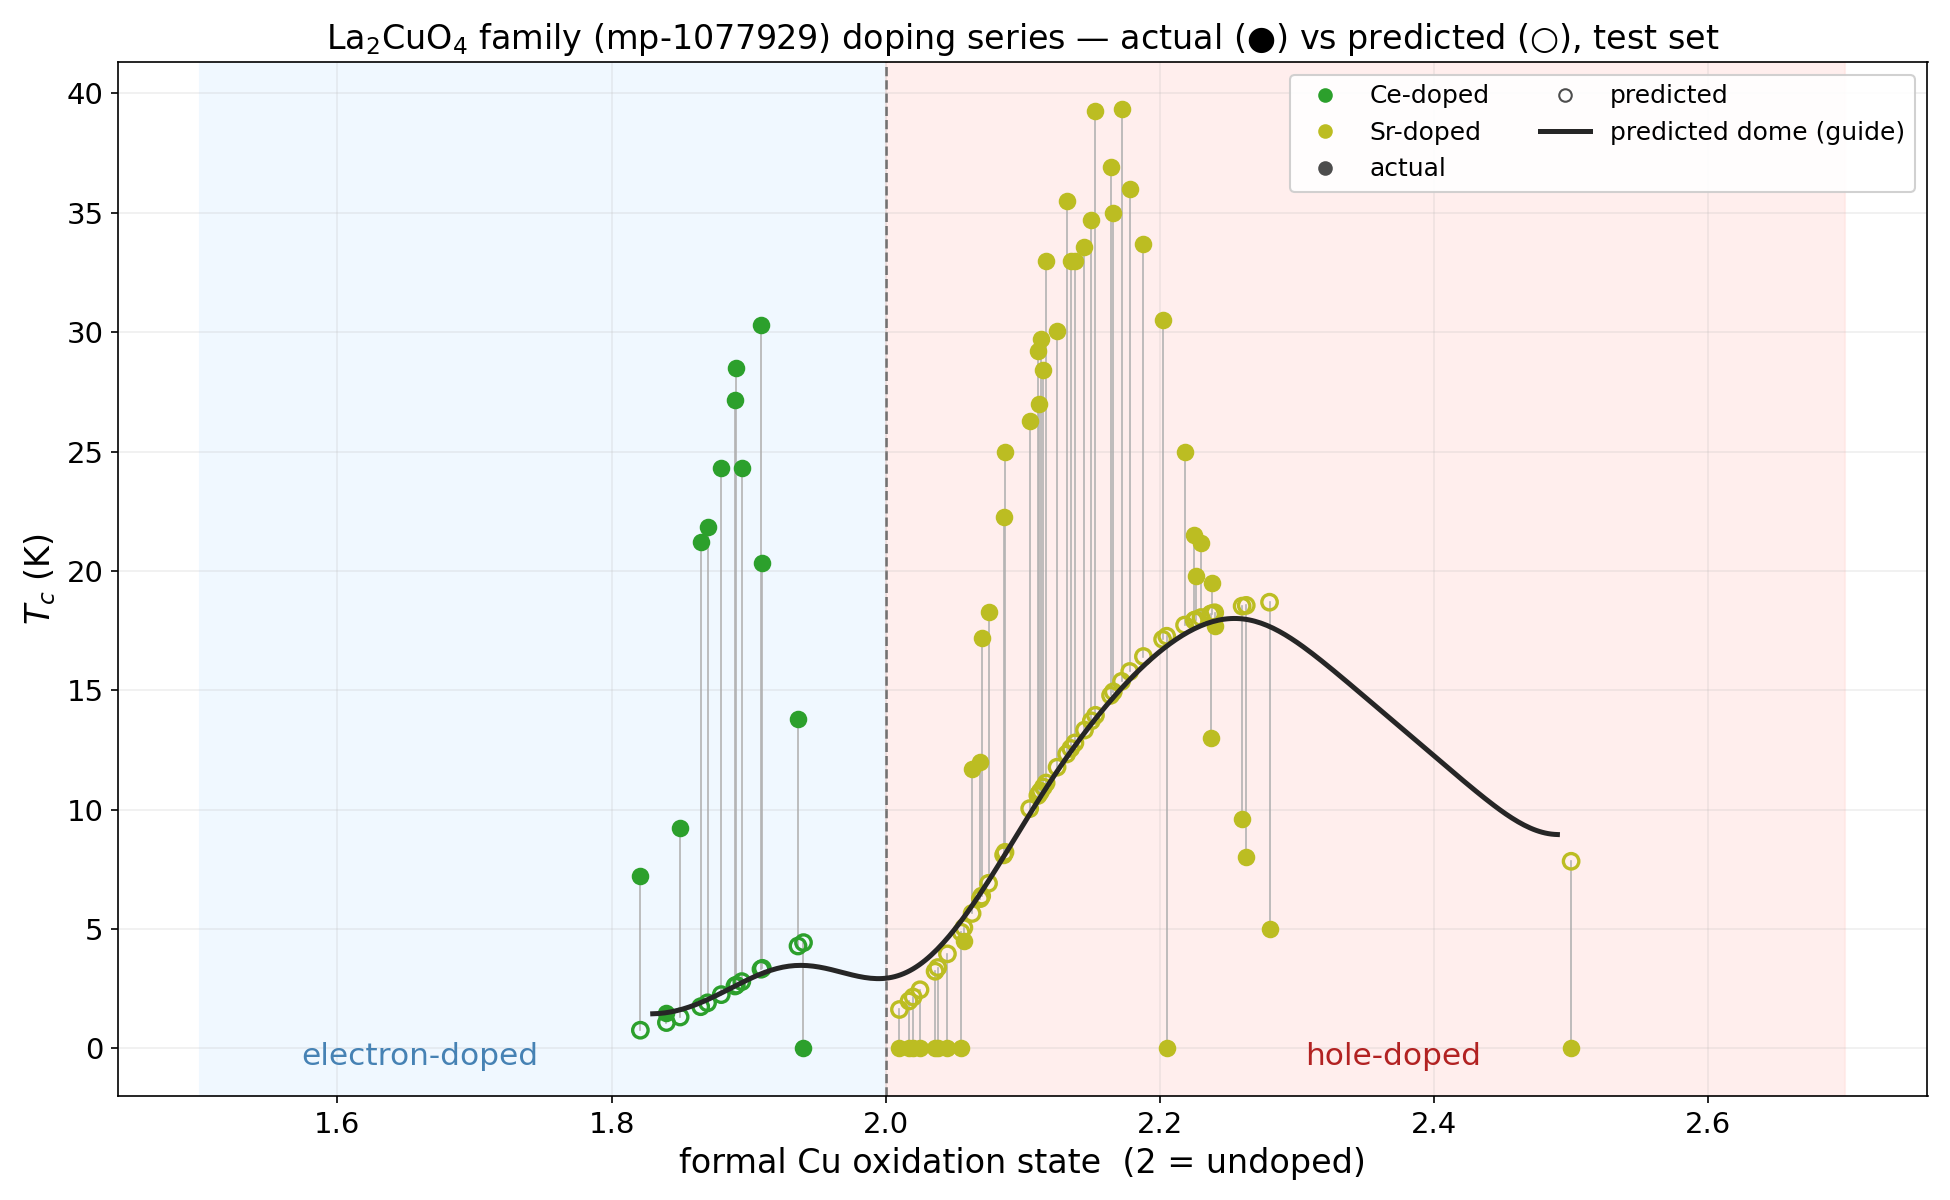
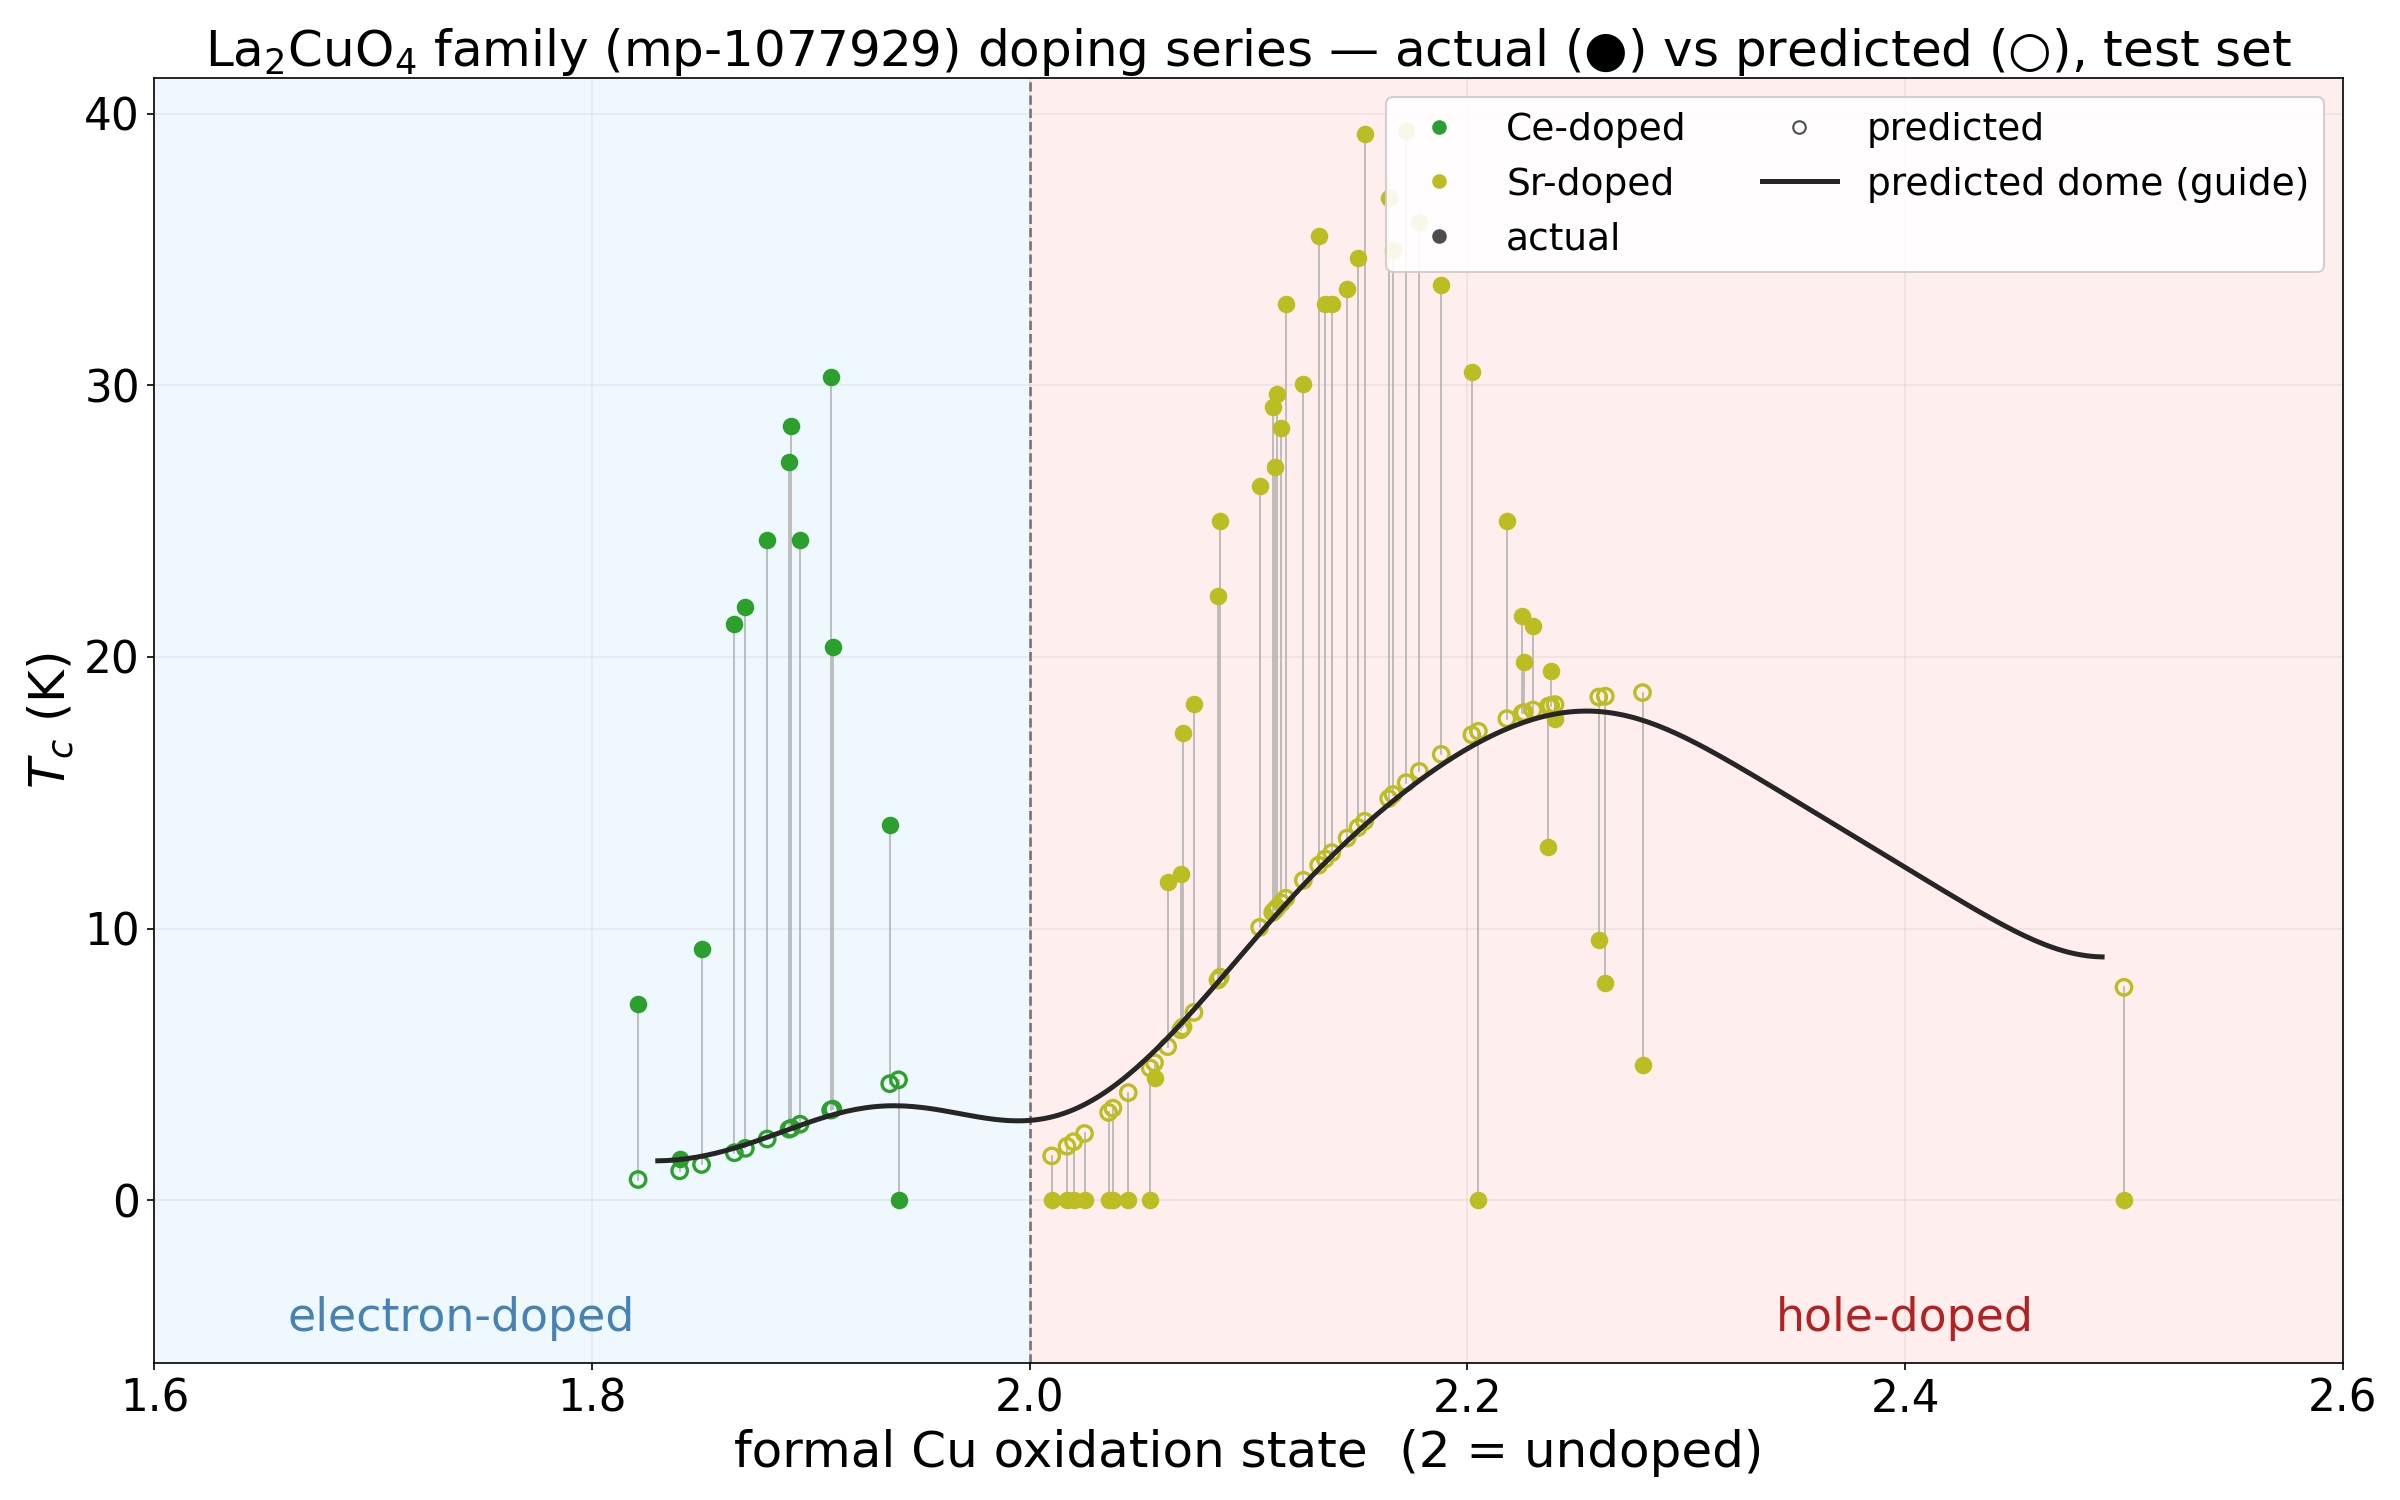
docs(figures): la_series dome round 2 — xlim 1.6-2.6, label band, +50% fonts
x-axis clamped to the data-bearing 1.6-2.6 window; ylim bottom extended to -6
so the electron/hole-doped labels sit in a dedicated band below the tc=0
marker row (no data overlap); all text +50% (title/axis 24pt, ticks 21pt,
region labels 22pt, legend 18pt) with the canvas grown to 16x10 so the
title fits.

diff --git a/scripts/plot_lsco_dome.py b/scripts/plot_lsco_dome.py
@@ -67,17 +67,17 @@ l = d[d.formula.map(is_lsco)].copy()                 # 214 family, any provenanc
 l["cu"] = l.formula.map(cu_oxidation); l["dop"] = l.formula.map(dopant)
 l = l.dropna(subset=["cu"]).sort_values("cu")
 
-fig, ax = plt.subplots(figsize=(13, 8))
+fig, ax = plt.subplots(figsize=(16, 10))
 # shaded doping regions + undoped line + region labels (as in the original)
 ax.axvspan(1.5, 2.0, color="aliceblue", zorder=0)
 ax.axvspan(2.0, 2.7, color="mistyrose", alpha=0.6, zorder=0)
 ax.axvline(2.0, color="0.4", ls="--", lw=1.2, zorder=1)
 import matplotlib.transforms as mtransforms
 _blend = mtransforms.blended_transform_factory(ax.transData, ax.transAxes)
-ax.text(1.66, 0.03, "electron-doped", color="steelblue", ha="center",
-        fontsize=15, transform=_blend)
-ax.text(2.37, 0.03, "hole-doped", color="firebrick", ha="center",
-        fontsize=15, transform=_blend)
+ax.text(1.74, 0.025, "electron-doped", color="steelblue", ha="center",
+        fontsize=22, transform=_blend)
+ax.text(2.4, 0.025, "hole-doped", color="firebrick", ha="center",
+        fontsize=22, transform=_blend)
 
 # per-material: gray connector + actual (filled) & predicted (open) circles, colored by dopant
 for r in l.itertuples():
@@ -103,12 +103,14 @@ sigma_pts = SMOOTH_EV / ((gx.max() - gx.min()) / (len(gx) - 1))
 guide = np.clip(gaussian_filter1d(np.interp(gx, bx, by), sigma=sigma_pts), 0, None)
 ax.plot(gx, guide, "-", color="0.15", lw=2.4, zorder=4)
 
-ax.set_xlabel("formal Cu oxidation state  (2 = undoped)", fontsize=16)
-ax.set_ylabel("$T_c$ (K)", fontsize=16)
-ax.tick_params(axis="both", labelsize=14)
+ax.set_xlabel("formal Cu oxidation state  (2 = undoped)", fontsize=24)
+ax.set_ylabel("$T_c$ (K)", fontsize=24)
+ax.tick_params(axis="both", labelsize=21)
 ax.set_title("La$_2$CuO$_4$ family (mp-1077929) doping series — actual (●) vs predicted (○), test set",
-             fontsize=16)
-ax.set_ylim(bottom=-2)
+             fontsize=24)
+ax.set_xlim(1.6, 2.6)
+# bottom margin below the tc=0 row so the region labels sit in their own band
+ax.set_ylim(bottom=-6)
 
 # legend: dopant colors (present) + actual/predicted/guide marker styles, 2 columns
 handles = [Line2D([], [], marker="o", ls="", mfc=DOP_COLOR[dp], mec=DOP_COLOR[dp],
@@ -119,7 +121,7 @@ for dp in ["Eu", "Zn", "Ni"]:
 handles += [Line2D([], [], marker="o", ls="", mfc="0.3", mec="0.3", label="actual"),
             Line2D([], [], marker="o", ls="", mfc="none", mec="0.3", label="predicted"),
             Line2D([], [], color="0.15", lw=2.4, label="predicted dome (guide)")]
-ax.legend(handles=handles, ncol=2, loc="upper right", fontsize=12, framealpha=0.9)
+ax.legend(handles=handles, ncol=2, loc="upper right", fontsize=18, framealpha=0.9)
 ax.grid(alpha=0.2)
 fig.tight_layout()
 fig.savefig(OUT, dpi=150)
